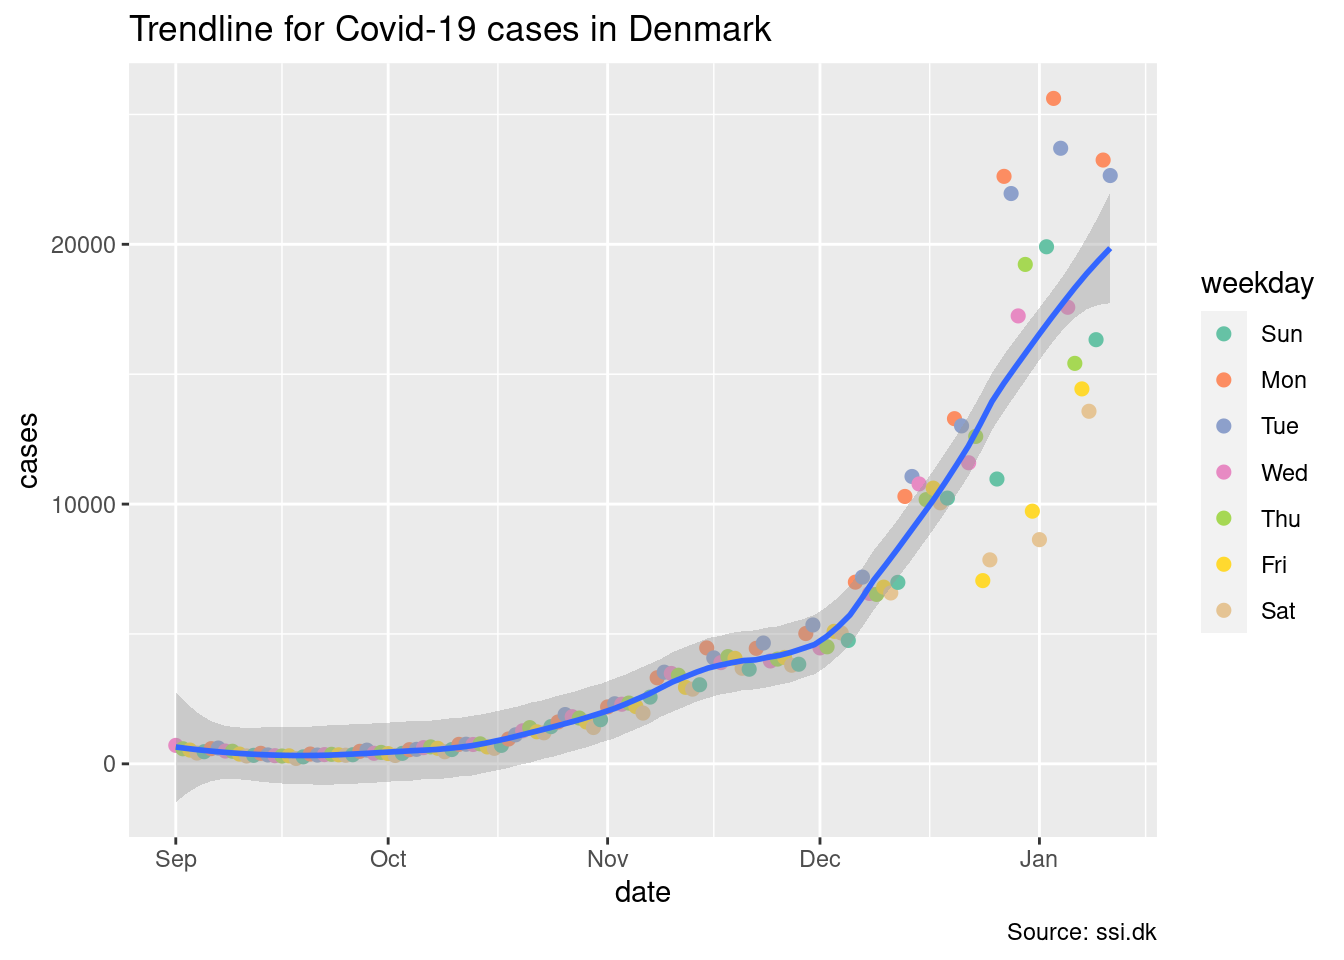
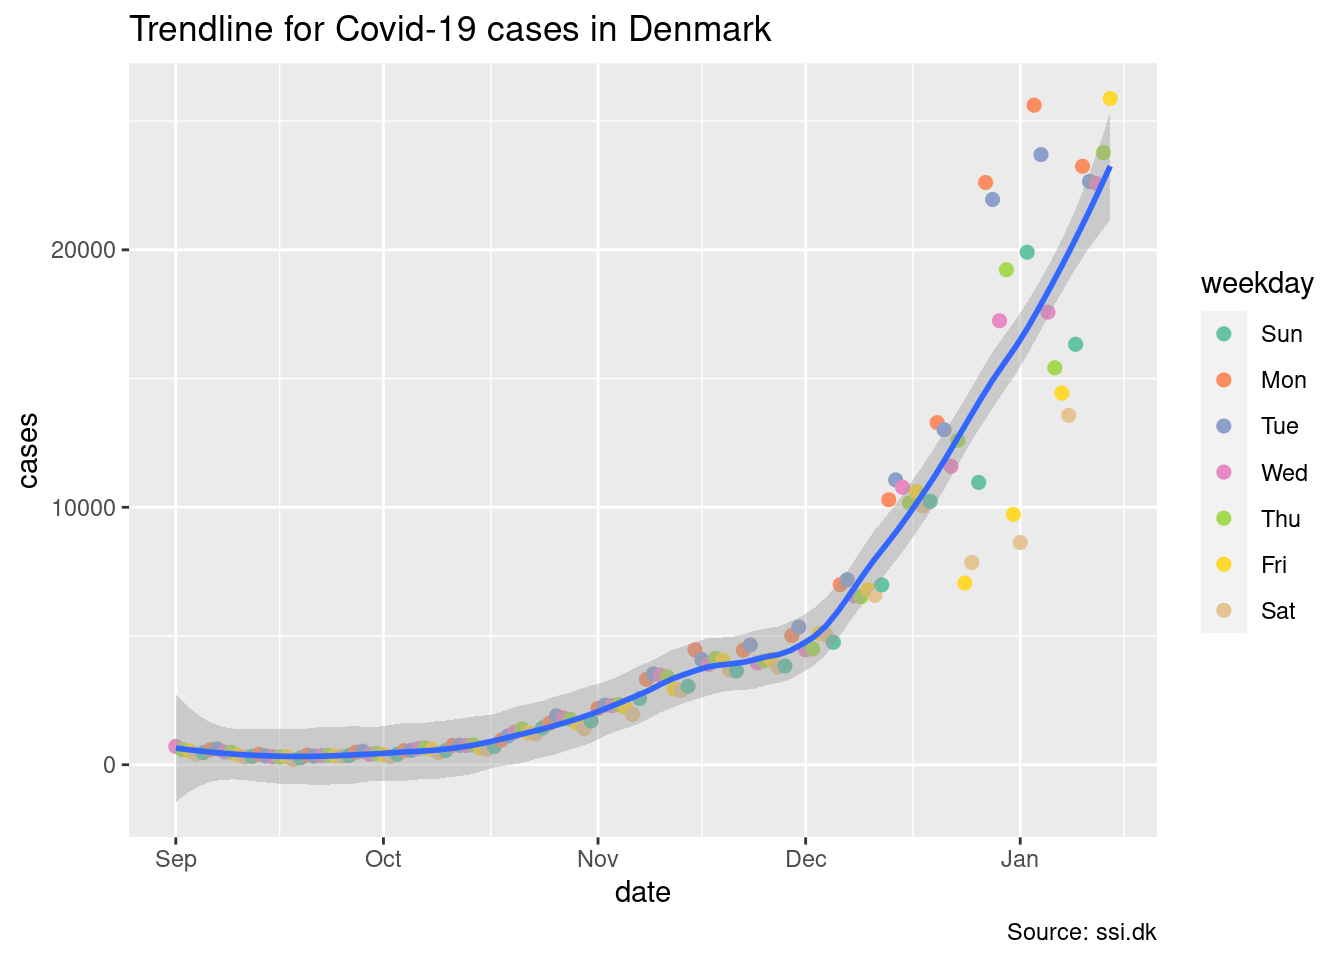
Actually, get the data over too.

diff --git a/docs/index.html b/docs/index.html
@@ -10,7 +10,7 @@
 
 
 
-<meta name="date" content="2022-01-14" />
+<meta name="date" content="2022-01-17" />
 
 <title>Covid-19 Stats for Denmark</title>
 
@@ -258,7 +258,7 @@ $(document).ready(function () {
 
 
 <h1 class="title toc-ignore">Covid-19 Stats for Denmark</h1>
-<h4 class="date">2022-01-14</h4>
+<h4 class="date">2022-01-17</h4>
 
 </div>
 
@@ -300,7 +300,7 @@ $(document).ready(function () {
 <pre class="r"><code>library(tidyverse)
 library(lubridate)</code></pre>
 <p>SSI’s data is in a zip file. We unpack this zip file into a directory of the general form <code>YYYY-MM-DD</code>. Lets set up a name for the current directory we want to grab data from</p>
-<pre class="r"><code>date &lt;- &quot;2022-01-14&quot;</code></pre>
+<pre class="r"><code>date &lt;- &quot;2022-01-17&quot;</code></pre>
 </div>
 <div id="ingesting-data" class="section level2">
 <h2>Ingesting data</h2>
@@ -342,7 +342,7 @@ library(lubridate)</code></pre>
                                       ))</code></pre>
 <pre><code>## ℹ Using &quot;&#39;,&#39;&quot; as decimal and &quot;&#39;.&#39;&quot; as grouping mark. Use `read_delim()` for more control.</code></pre>
 <pre class="r"><code>data</code></pre>
-<pre><code>## # A tibble: 6,525 × 9
+<pre><code>## # A tibble: 6,558 × 9
 ##    Region      Prøvetagningsdato Køn   `Bekræftede tilfælde`  Døde Indlæggelser
 ##    &lt;fct&gt;       &lt;date&gt;            &lt;fct&gt;                 &lt;dbl&gt; &lt;dbl&gt;        &lt;dbl&gt;
 ##  1 Sjælland    2020-02-26        M                         1     0            0
@@ -355,7 +355,7 @@ library(lubridate)</code></pre>
 ##  8 Hovedstaden 2020-03-03        F                         1     0            0
 ##  9 Hovedstaden 2020-03-03        M                         3     0            1
 ## 10 Hovedstaden 2020-03-04        M                         2     0            0
-## # … with 6,515 more rows, and 3 more variables: Kummuleret antal døde &lt;dbl&gt;,
+## # … with 6,548 more rows, and 3 more variables: Kummuleret antal døde &lt;dbl&gt;,
 ## #   Kummuleret antal bekræftede tilfælde &lt;dbl&gt;,
 ## #   Kummuleret antal indlæggelser &lt;dbl&gt;</code></pre>
 <p>We certainly don’t want to work with danish-named columns. Rather, we want small descriptive names which are easy to type. We send our dataset through a <code>rename</code> pass for this.</p>
@@ -370,7 +370,7 @@ library(lubridate)</code></pre>
 # Cut the cumulative columns away
 data &lt;- data %&gt;% select(region, date, gender, cases, deaths, hospitalizations)
 data</code></pre>
-<pre><code>## # A tibble: 6,525 × 6
+<pre><code>## # A tibble: 6,558 × 6
 ##    region      date       gender cases deaths hospitalizations
 ##    &lt;fct&gt;       &lt;date&gt;     &lt;fct&gt;  &lt;dbl&gt;  &lt;dbl&gt;            &lt;dbl&gt;
 ##  1 Sjælland    2020-02-26 M          1      0                0
@@ -383,7 +383,7 @@ data</code></pre>
 ##  8 Hovedstaden 2020-03-03 F          1      0                0
 ##  9 Hovedstaden 2020-03-03 M          3      0                1
 ## 10 Hovedstaden 2020-03-04 M          2      0                0
-## # … with 6,515 more rows</code></pre>
+## # … with 6,548 more rows</code></pre>
 <p>Provide a low cut-off. We are interested in the recent period with Omicron, rather than the full duration of Covid-19.</p>
 <pre class="r"><code>lo_cutoff &lt;- &#39;2021-09-01&#39;</code></pre>
 <p>The high end of that cutoff, we set to two days before the maximal date in our data set</p>
@@ -397,7 +397,7 @@ data</code></pre>
 # Put this into the summary
 summary &lt;- data
 summary</code></pre>
-<pre><code>## # A tibble: 1,330 × 6
+<pre><code>## # A tibble: 1,360 × 6
 ##    region      date       gender cases deaths hospitalizations
 ##    &lt;fct&gt;       &lt;date&gt;     &lt;fct&gt;  &lt;dbl&gt;  &lt;dbl&gt;            &lt;dbl&gt;
 ##  1 Hovedstaden 2021-09-01 F        210      0                7
@@ -410,7 +410,7 @@ summary</code></pre>
 ##  8 Nordjylland 2021-09-01 M         16      1                2
 ##  9 Sjælland    2021-09-01 M         37      0                3
 ## 10 Syddanmark  2021-09-01 M         41      0                1
-## # … with 1,320 more rows</code></pre>
+## # … with 1,350 more rows</code></pre>
 </div>
 <div id="weekly-key-figures-split-by-age" class="section level3">
 <h3>Weekly key figures split by age</h3>
@@ -435,7 +435,7 @@ summary</code></pre>
                         tested = &#39;Antal testede&#39;,
                         cases = &#39;Antal positive&#39;)
 data</code></pre>
-<pre><code>## # A tibble: 895 × 7
+<pre><code>## # A tibble: 904 × 7
 ##    week     ageGroup tested_100k cases_100k hospitalized_100k tested cases
 ##    &lt;chr&gt;    &lt;fct&gt;          &lt;dbl&gt;      &lt;dbl&gt;             &lt;dbl&gt;  &lt;dbl&gt; &lt;dbl&gt;
 ##  1 2020-W04 0-2                0          0                 0      0     0
@@ -448,7 +448,7 @@ data</code></pre>
 ##  8 2020-W04 65-79              0          0                 0      0     0
 ##  9 2020-W04 80+                0          0                 0      0     0
 ## 10 2020-W05 65-79              0          0                 0      1     0
-## # … with 885 more rows</code></pre>
+## # … with 894 more rows</code></pre>
 <p>Take a look at the <code>week</code> column. It reports a year, and a week number. We’ll need to handle this, by converting this into a date. We’ll do that by defining a fixup function. If we have a string such as <code>2020-W04</code>, it means the 4th week of 2020. To get a date, we need a day inside the week to use as the day-of-week. So we turn the string into <code>2020-W04-1</code>, then send it through <code>strptime()</code>, a general time-parsing function.</p>
 <pre class="r"><code>fixup_week &lt;- function(s) {
     # For strptime to do its work correctly, it must know a day of the week. Here, we
@@ -524,6 +524,13 @@ p &lt;- ggplot(country, aes(x=date, y=(cases - previous_cases), color=weekday))
 plot_country_lag(p, &quot;As Omicron took over, noise entered data in Denmark&quot;, &quot;Source: ssi.dk&quot;)</code></pre>
 <pre><code>## Warning: Removed 1 rows containing missing values (geom_point).</code></pre>
 <p><img src="index_files/figure-html/country-lagged-1.png" width="672" /></p>
+<p>Another way of plotting this is to plot the number of cases today on one axis, and the previous cases from the day before on another axis.</p>
+<pre class="r"><code>p &lt;- ggplot(country, aes(x=previous_cases, y=cases, color=weekday))
+plot_country_lag(p, &quot;Delta change on cases&quot;, &quot;Source: ssi.dk&quot;) +
+  geom_abline(slope=1, color=&#39;gray&#39;, linetype=2)</code></pre>
+<pre><code>## Warning: Removed 1 rows containing missing values (geom_point).</code></pre>
+<p><img src="index_files/figure-html/country-lagged-scatter-1.png" width="672" /></p>
+<p>The fact Monday and Sunday are always above the dashed line means they always provide an increase in case count compared to other days. The days where these numbers tend to be entered into the database are Monday and Tuesday.</p>
 <p>Because there are some clear day-of-week structure in the data set, it’s worth looking a bit into this. In particular:</p>
 <ul>
 <li><code>Monday</code> tends to have large positive change.</li>
